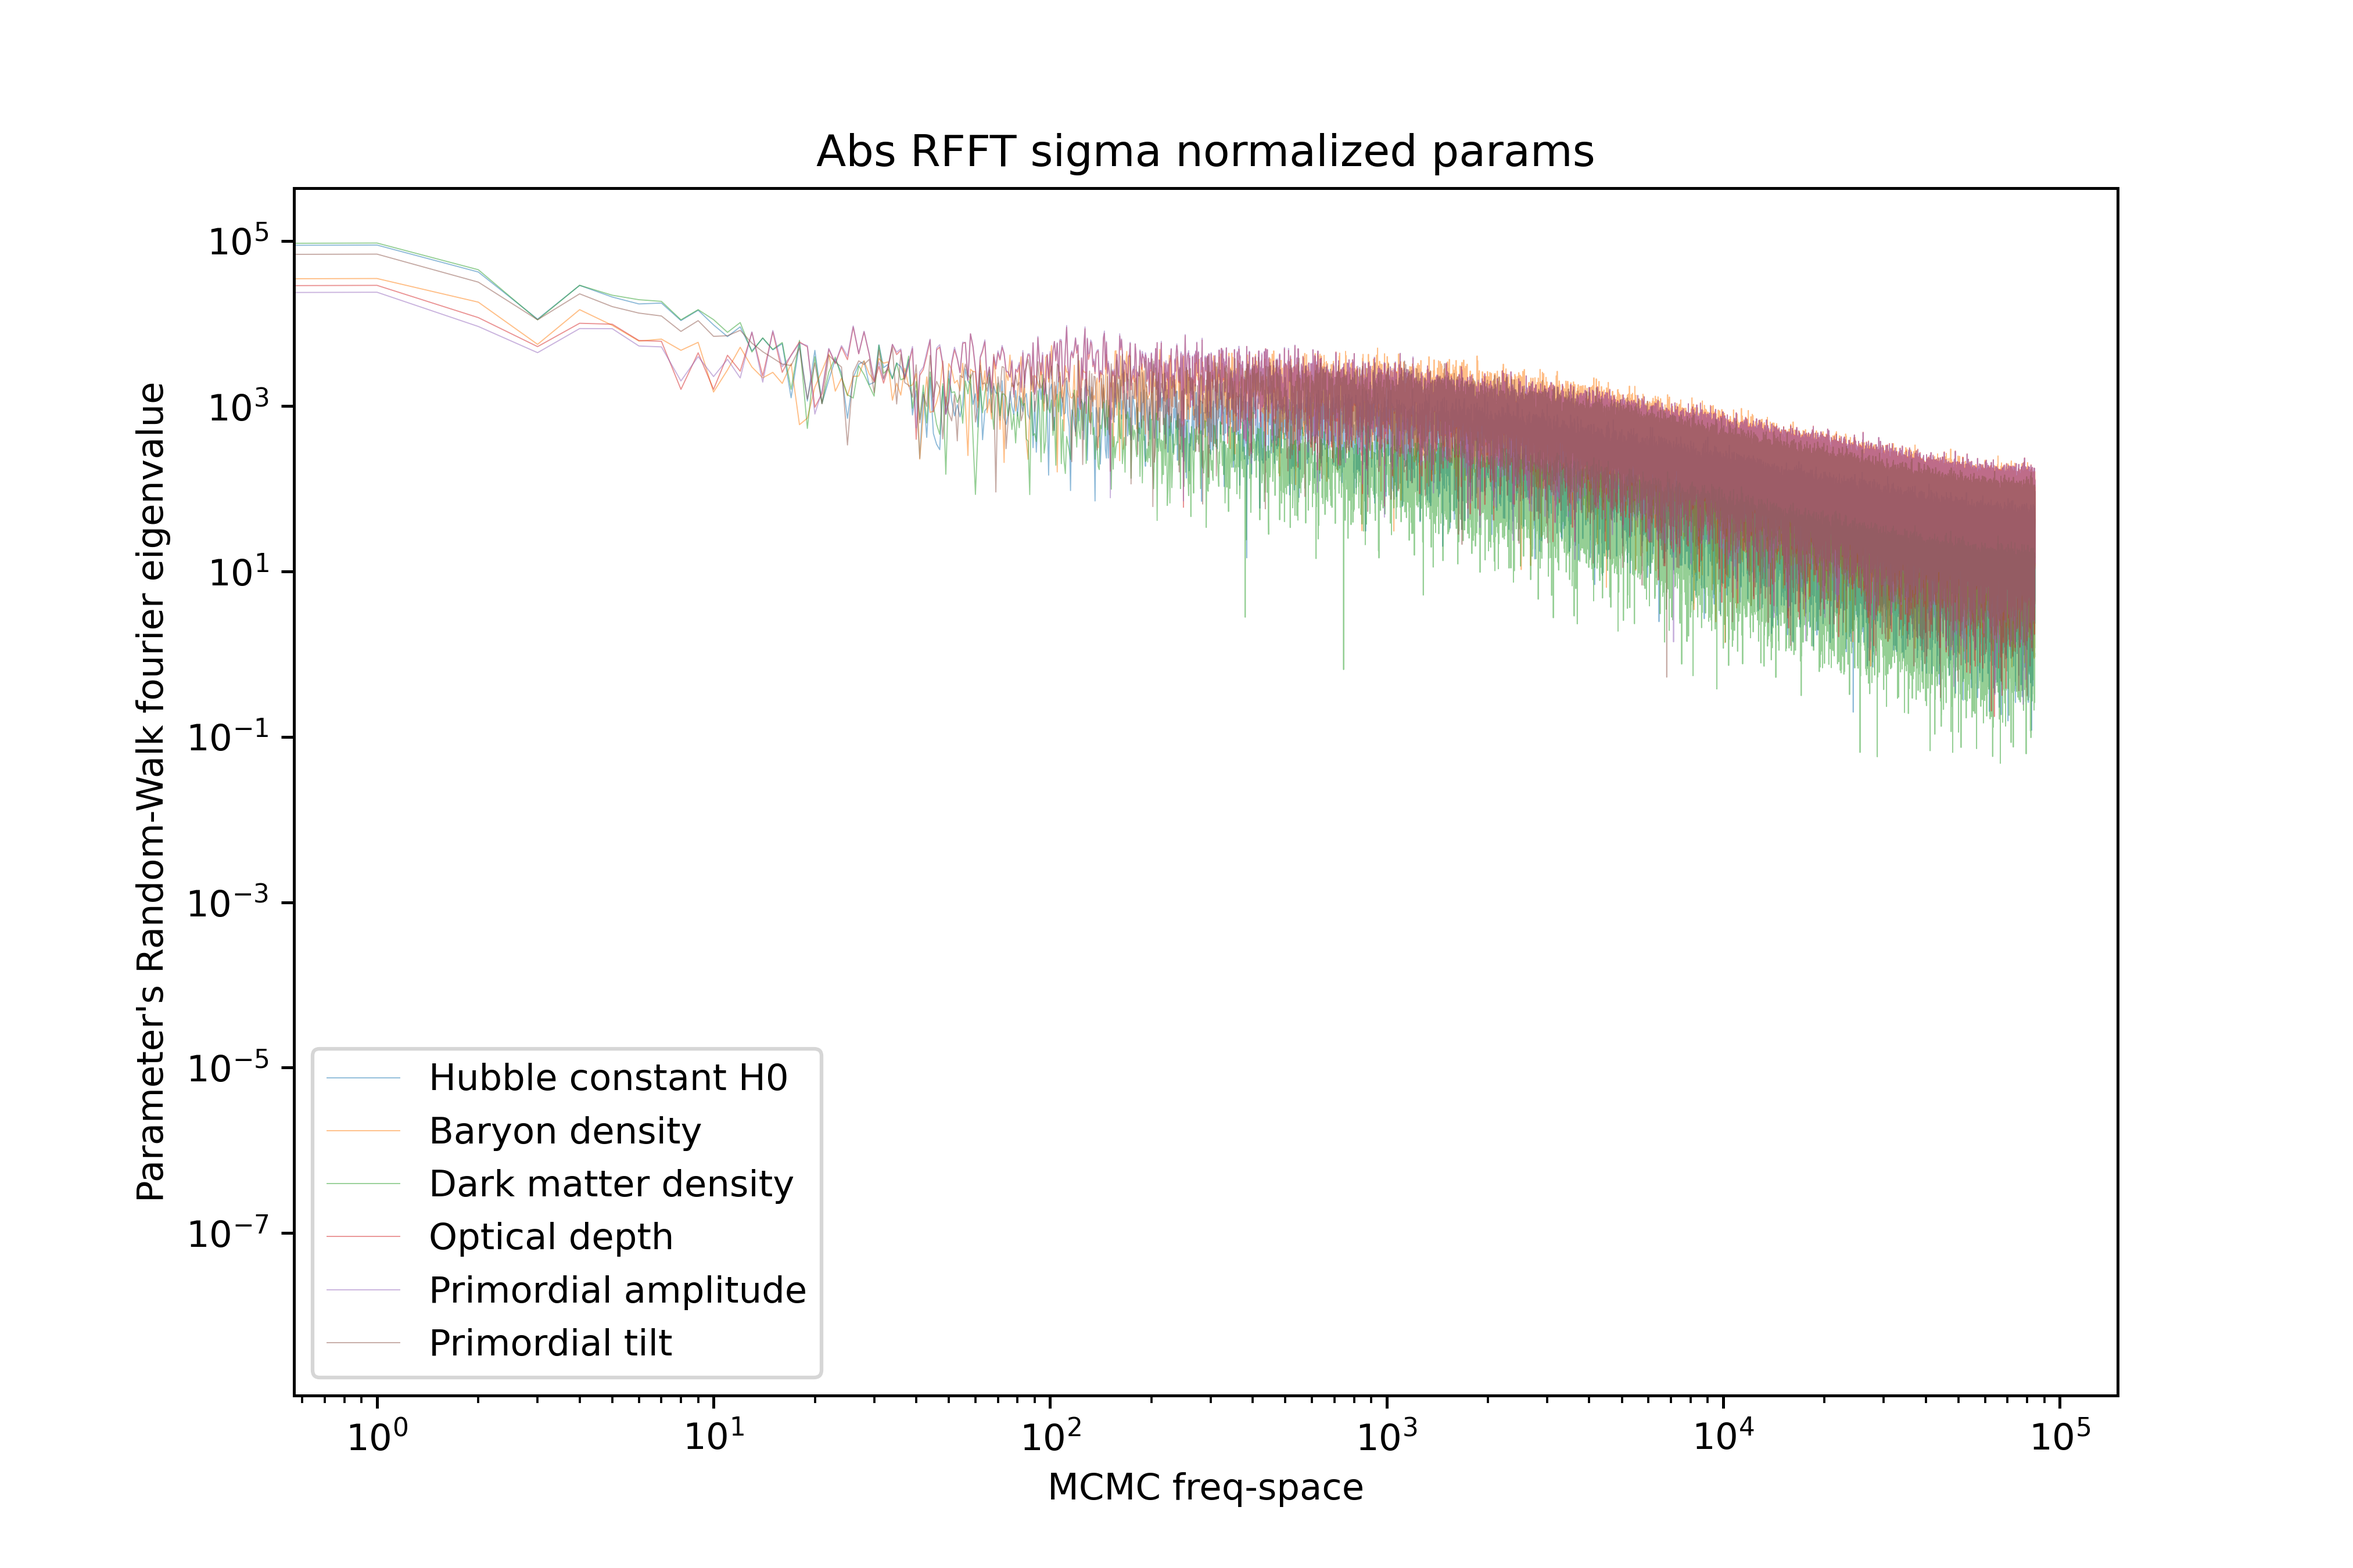
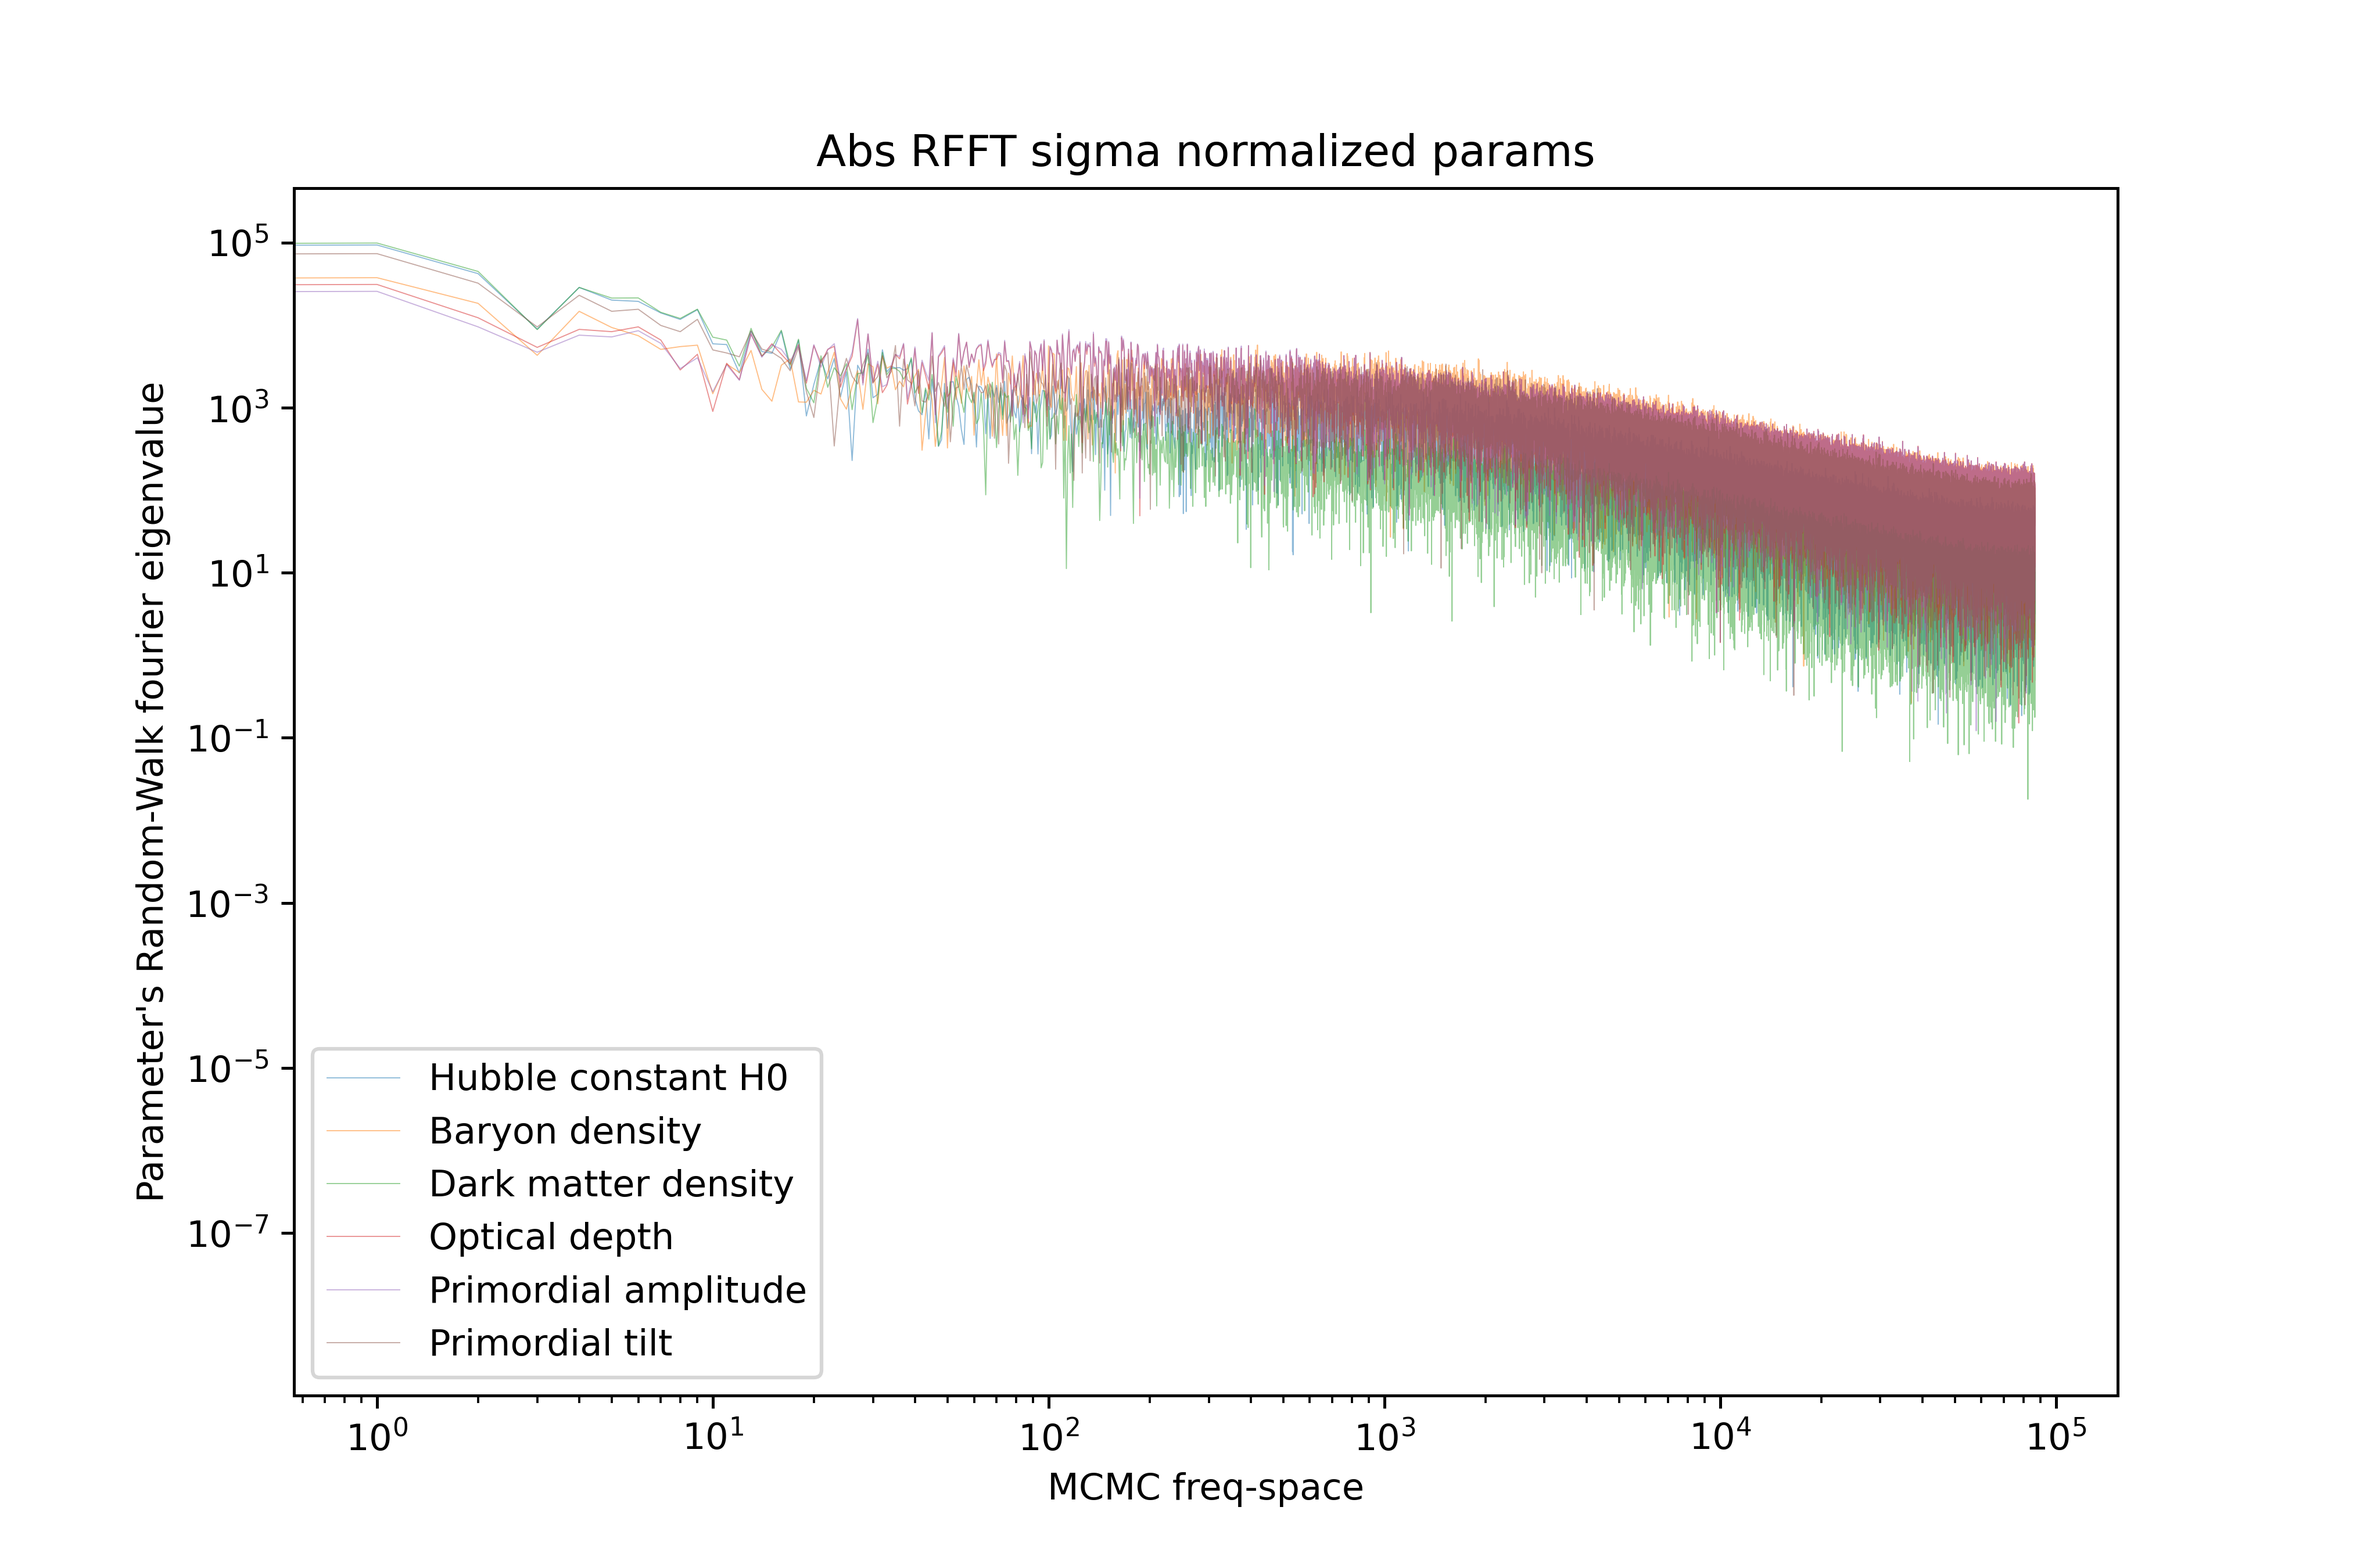
problem 4 almost done

diff --git a/pset05/mcmc/p3_plots.py b/pset05/mcmc/p3_plots.py
@@ -4,11 +4,7 @@ from matplotlib import pyplot as plt
 # shortcuts
 sqrt=np.sqrt
 
-# Load a chain 
-#basename="2022-10-19T21:26:20.889518"
-#basename="2022-10-19T22:21:11.430998"
-#basename="2022-10-20T17:22:23.375177"
-#basename="2022-10-20T20:16:54.072785"
+# Load MCMC data
 import os 
 allfiles=os.listdir("mcmcdata")
 allfiles.sort()
@@ -19,8 +15,6 @@ chidata=[np.load(f"mcmcdata/{i}").T for i in chifiles]
 for pars,chi in zip(parsdata,chidata):
     print(f"pars.shape {pars.shape}")
     print(f"chi.shape {chi.shape}")
-parsdata=parsdata[4:]
-chidata=chidata[4:]
 
 #pars =np.load(f"mcmcdata/{basename}_params.npy")
 #chisq=np.load(f"mcmcdata/{basename}_chisq.npy")
@@ -30,13 +24,18 @@ print("COMBINED")
 print(f"pars shape {pars.shape}")
 print(f"chisq shape {chisq.shape}")
 
-# Trunkate foreburn (???what the name???)
+# Trunkate burn in # actually this is unecessary in this case
 
 # Compute and display some key info
 parnames=["Hubble constant H0","Baryon density","Dark matter density",
         "Optical depth","Primordial amplitude","Primordial tilt"]
-mean_pars=np.mean(pars,axis=0)
-var_pars =np.mean(pars**2,axis=0) - np.mean(pars,axis=0)**2
+# Estimate the most likely value of each param
+mean_pars=np.mean(pars   ,axis=1)
+print(f"DEBUG: mean_pars.shape={mean_pars.shape}")
+print(f"DEBUG: mean_pars={mean_pars}")
+# Estimate the variance in each param
+var_pars =np.mean(pars**2,axis=1) - mean_pars**2
+# Estimate the covariance matrix
 cov = np.diagflat(var_pars) #np.zeros((pars.shape[0],pars.shape[0]))
 for i in range(pars.shape[0]):
     for j in range(i):
@@ -49,20 +48,30 @@ print(f"Cov mat \n{cov}")
 #means=[np.mean(pars[:i,:],axis=0) for i in range(1,pars.shape[0])] 
 #variances=[np.mean(pars[:i,:]**2,axis=0) - np.mean(pars[:i,:],axis=0)**2 for i in range(1,pars.shape[0])]
 
-# Plot Normalized parameters
 
-#plt.figure(figsize=(9,6))
+
+# Plot Normalized parameters
+plt.figure(1,figsize=(9,6))
 for par,meanpar,varpar,name in zip(pars,mean_pars,var_pars,parnames):
-    plt.figure(figsize=(9,6))
-    plt.plot(par,label=name)
-    plt.legend()
-    plt.show(block=True)
-    #plt.plot((par-meanpar)/sqrt(varpar),label=name)
+    print(f"\npar={par}\nmeanpar={meanpar}")
+    plt.plot((par-meanpar)/sqrt(varpar),".",markersize=0.5,alpha=0.5,label=name)
 plt.legend()
 plt.title("Sigma normalized parameters")
 plt.xlabel("MCMC time")
 plt.ylabel("Parameter value")
 plt.savefig(f"mcmcplot/all_params.png",dpi=450)
+plt.show(block=False)
+plt.pause(0.2)
+
+
+plt.figure(2,figsize=(9,6))
+for par,meanpar,varpar,name in zip(pars,mean_pars,var_pars,parnames):
+    plt.loglog(np.abs(np.fft.rfft((par-meanpar)/sqrt(varpar))),"-",linewidth=0.3,alpha=0.5,label=name)
+plt.title("Abs RFFT sigma normalized params")
+plt.legend()
+plt.xlabel("MCMC freq-space")
+plt.ylabel("Parameter's Random-Walk fourier eigenvalue")
+plt.savefig(f"mcmcplot/all_params_fft.png",dpi=450)
 plt.show(block=True)
 
 

diff --git a/pset05/mcmc/p3_mcmc.py b/pset05/mcmc/p3_mcmc.py
@@ -56,6 +56,10 @@ def mcmc(d,A,m0,cov,errs,nstep,step_size):
         params_str=" ".join([f"{(i-i0)/i0:.1e}" for i,i0 in zip(m,M0)])
         print(f"\t\tparams diff normalized={params_str}")
         valid_param=False
+        # This while loop is so that the program doesn't crash if our 
+        # random walker wonders too far. Mathematically, this is
+        # equivalent to putting infinite heavy-side at the boundary of
+        # where our loss function is valid
         while not valid_param:
             try:
                 # Update param
@@ -78,18 +82,20 @@ def mcmc(d,A,m0,cov,errs,nstep,step_size):
 # Get model parameters to init MCMC
 dic_in=json.load(open("plank_fit_params.txt","r"))
 # Load the last element of the last chain
-pars=np.array(dic_in["pars"])
-m0=pars.copy()
-M0=m0.copy()
-#import os
-#filenames = os.listdir("./mcmcdata")
-#filenames.sort()
+#pars=np.array(dic_in["pars"])
+#m0=pars.copy()
+
+import os
+filenames = os.listdir("./mcmcdata")
+filenames.sort()
 #fname=filenames[-1]
-#print(f"fname=./mcmcdata/{fname}")
-#m0=np.load("./mcmcdata/"+fname)[-1,:]
-#pars=m0.copy()
-#print(f"m0={m0}")
-cov=np.array(dic_in["cov"])
+fname=filenames[-3]
+print(f"fname=./mcmcdata/{fname}")
+m0=np.load("./mcmcdata/"+fname)[-1,:]
+pars=m0.copy() 
+cov=np.array(dic_in["cov"]) # Covariance matrix
+
+M0=m0.copy() # debug
 
 # Data
 planck=np.loadtxt('COM_PowerSpect_CMB-TT-full_R3.01.txt',skiprows=1)

diff --git a/pset05/mcmc/mcmcdata/npy_to_txt.py b/pset05/mcmc/mcmcdata/npy_to_txt.py
@@ -28,6 +28,10 @@ for pars,chi in zip(parsdata,chidata):
 #chisq=np.load(f"mcmcdata/{basename}_chisq.npy")
 pars=np.hstack(parsdata)
 chisq=np.hstack(chidata)
+# Trunkate the signal, throw out burn in, keep tail
+burn_in_idx=30000 # obtained from eyeballing plot
+pars,chisq=pars[:,burn_in_idx:],chisq[burn_in_idx:]
+
 print("COMBINED")
 print(f"pars shape {pars.shape}")
 print(f"chisq shape {chisq.shape}")
@@ -73,7 +77,7 @@ with open("../plank_mcmc_fit_params.txt","w") as f:
 print("INFO: dumping data arrays into txt")
 
 print(f"pars.shape={pars.shape}, chisq.shape={chisq.shape}")
-np.savetxt("plank_chain.txt",np.vstack([chisq,pars]))
+np.savetxt("plank_chain.txt",np.vstack([chisq,pars]).T)
 
 
 

diff --git a/pset05/mcmc/p2_newton.py b/pset05/mcmc/p2_newton.py
@@ -171,7 +171,7 @@ if __name__ == "__main__":
     
     print("INFO: Newton iter")
     print(f"\tchisq={get_chisq(pars,spec,errs,get_spectrum)}")
-    for i in range(4):
+    for i in range(8):
         print(f"\nDEBUG: iteration {i+1}/4")
         pars = newton_iter(get_spectrum,pars,spec,m0,Ninv)
         print(f"\tchisq={get_chisq(pars,spec,errs,get_spectrum)}")

diff --git a/pset05/README.md b/pset05/README.md
@@ -253,6 +253,16 @@ We get these parameters, which are in `plank_mcmc_fit_params.txt` (not displayed
 
 We can tell our chain has converged by observing that the lower frequencies look like white noise. 
 
+The dark matter density times h-squared is `0.1116 +- 9.5e-4`. To get the actual dark-matter density we divide by h-squared, which is H0/100. `H0 = 71.0 +- 0.25`, so `h = 0.710 +- 0.0025`. We can approximate the square and std of the square by `sigma_hsq = 2*sigma_h*h` to first order, `h^2 = 0.504 +- 0.0035`. Now, to get the dark-matter density we divide our original number by `h^2`, keeping only highest order terms to estimate our uncertainty 
+
+```
+Omega \approx \Omega_hsq/hsq \pm (sigma_omega_hsq + sigma_hsq)/hsq
+Omega = 0.1116/0.504 +- (0.0035 + 9.5e-4)/0.504
+      = 0.221 +- 0.0088
+```
+
+
+
 ![all_params_fft](https://user-images.githubusercontent.com/21654151/198725023-5c5db8e9-d13e-4979-aafe-3a55cbd2da68.png)
 
 ![all_params](https://user-images.githubusercontent.com/21654151/198724988-31fad741-ae70-4eb7-ae71-f3fdfd7e2470.png)
@@ -261,6 +271,90 @@ We can tell our chain has converged by observing that the lower frequencies look
 ![covmat_mcmc](https://user-images.githubusercontent.com/21654151/198724967-5a4ed4e0-933f-4476-81ea-4c800407c3a8.png)
 
 
+## 4)
+
+**Importance Sampling**
+
+We use importance sampling by weighting the averages with the ratio of likelyhoods of our original loss function with the one that includes the new prior on tau. The ratio is just the exponential of `-0.5` times our prior componant of our new chi-squared function, which we assume to be a quadratic, as it's a good assumption to make that our tau likelyhood, obtained from polarization data, is normally distributed. This is done in the code snippet below, which can be found in `p4_importance_sampling.py`. We use importance sampling  `plank_mcmc_importance_params.txt`. 
+
+```python
+# Determine weights for importance sampling
+def get_weights(pars):
+    tau=pars[:,3] # sampled taus
+    tau_bar=0.0540 # prior on tau 
+    tau_sig=0.0074 # prior sigma on tau
+    # Ratio of likelyhoods is just our extra prior
+    weights=np.exp(-0.5*((tau-tau_bar)/tau_sig)**2)
+    return weights
+```
+
+The covariance of two parameters can be estimated like so
+
+```python
+pars_i=pars[:,i]
+pars_j=pars[:,j]
+mu_i=np.average(pars_i,weights)
+mu_j=np.average(pars_j,weights)
+cov_ij=np.average((pars_i-mu_i)*(pars_j-mu_j),weights=weights)
+```
+
+After importance sampling, our best fit parameters (saved to `plank_mcmc_importance.txt`) are as follows:
+
+```
+{
+  "parnames": [
+    "Hubble constant H0",
+    "Baryon density",
+    "Dark matter density",
+    "Optical depth",
+    "Primordial amplitude",
+    "Primordial tilt"
+  ],
+  "pars": [
+    70.62405203154053,
+    0.022636048025946476,
+    0.1123185875192795,
+    0.05784293762241056,
+    2.0747648182055052e-09,
+    0.9840587922443713
+  ],
+  "vars": [
+    0.4143958180902279,
+    3.953675332107864e-08,
+    1.5217522491607208e-06,
+    5.244406228349512e-05,
+    9.34928436145934e-22,
+    1.5791032739638025e-05
+  ]
+}
+```
+
+Our new normalized covariance matrix looks like this
+
+
+
+
+
+
+**New Chain**
+
+To constrain tau, we need only modify our chi-squared function as such
+
+```python
+def get_chisq(m):
+    """Takes model param, uses environment for A and d"""
+    model=A(m)
+    model=model[:len(d)]
+    resid=d-model
+    # Constrain Tau
+    tau=m[3]
+    taubar=0.0540 # prior for tau
+    tausig=0.0074 # prior sigma for tau
+    chisq_tau=((tau-taubar)/tausig)**2
+    return np.sum((resid/errs)**2) + chisq_tau
+```
+
+This chain converged faster. We compute the expected values for the parameters and the new covariance matrix. 
 
 
 
